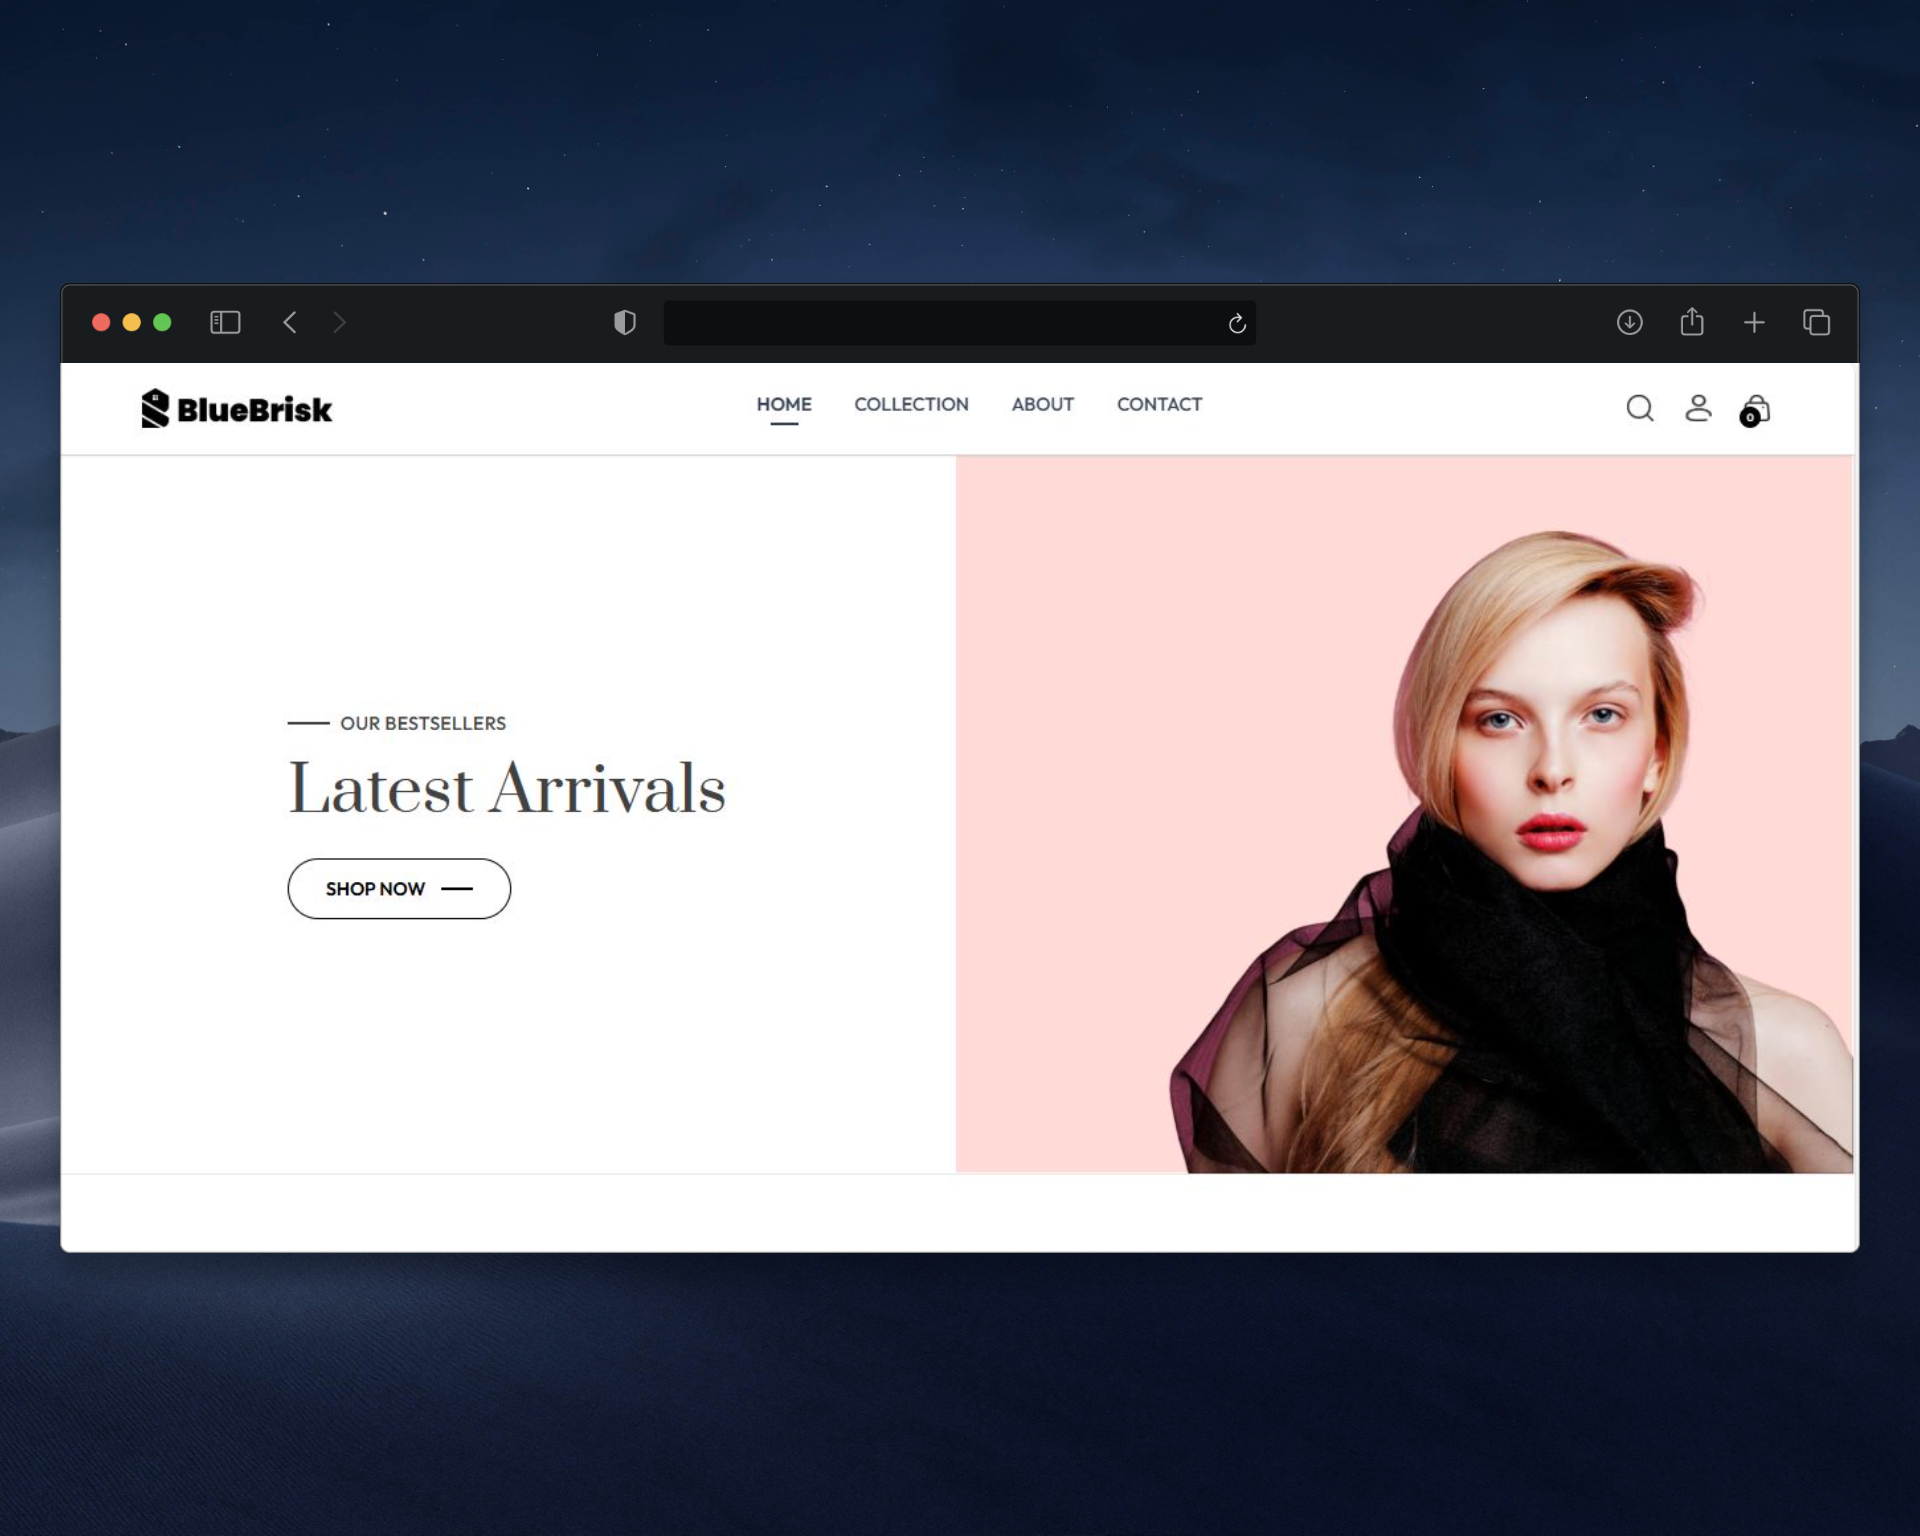
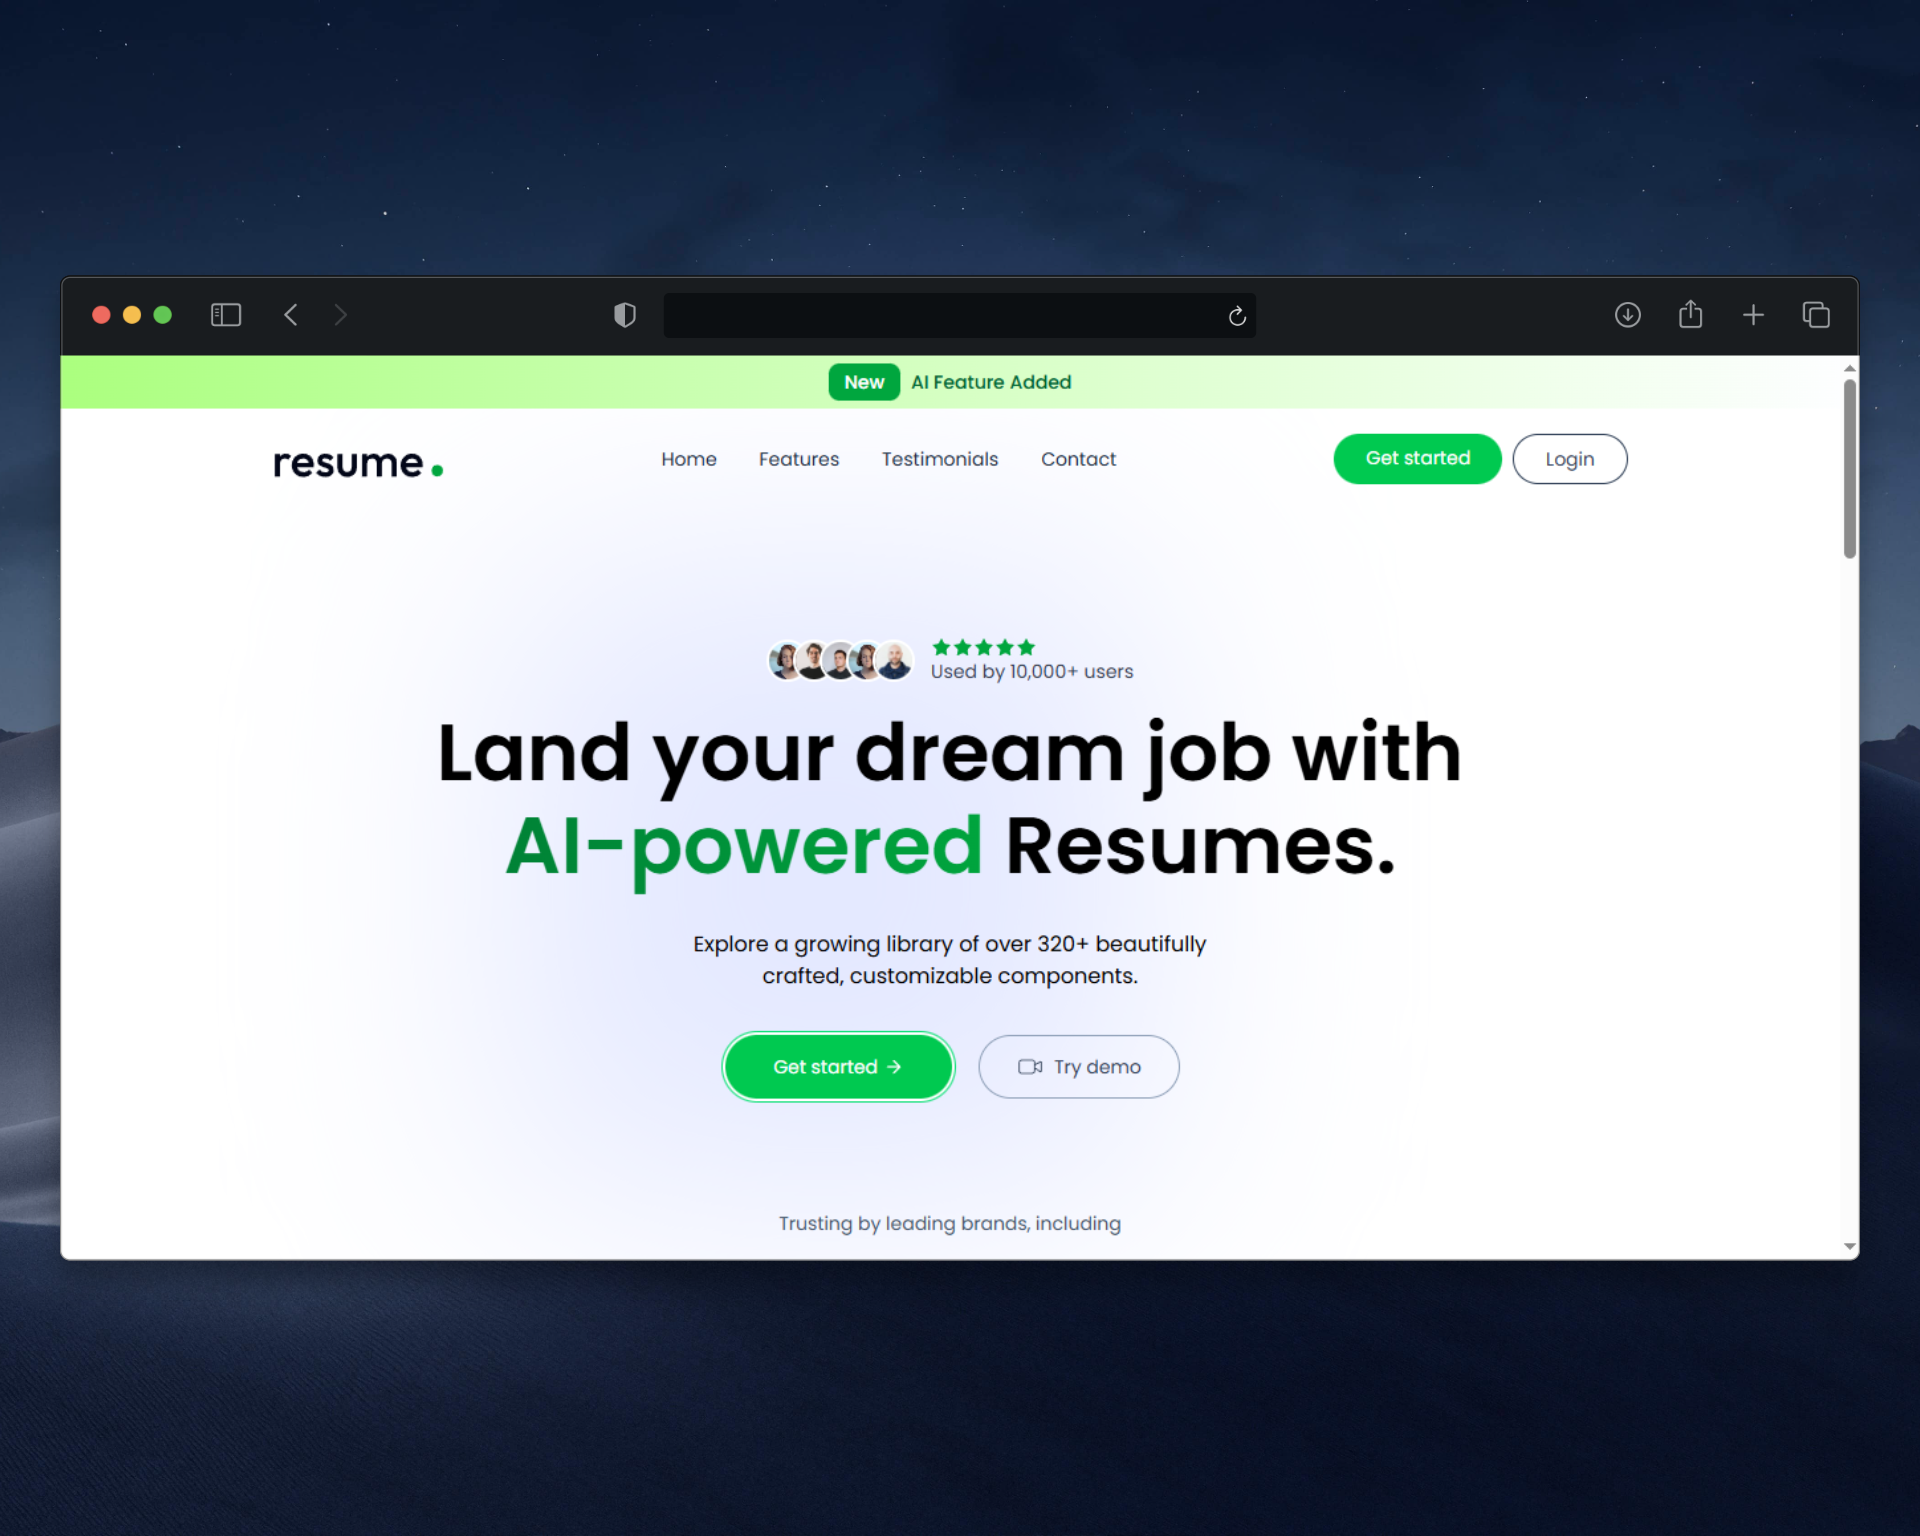
Add Job Tracker project to portfolio

diff --git a/src/assets/mywork_data.js b/src/assets/mywork_data.js
@@ -1,17 +1,24 @@
 import project_1 from '../assets/project_1.png'
 import project_2 from '../assets/project_2.png'
+import project_3 from '../assets/project_3.png'
 
 const mywork_data = [
     {
         w_no:1,
         w_name:"Web design",
         w_img:project_1,
-        live_link:"https://resume-builder-sage-theta.vercel.app/"
+        live_link:"https://job-tracker-app-blue-mu.vercel.app/"
     },
     {
         w_no:2,
         w_name:"Web design",
         w_img:project_2,
+        live_link:"https://resume-builder-sage-theta.vercel.app/"
+    },
+    {
+        w_no:3,
+        w_name:"Web design",
+        w_img:project_3,
         live_link:"https://bluebrisk.vercel.app/"
     }
 ]
